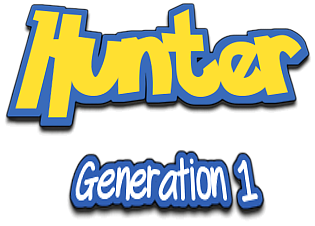
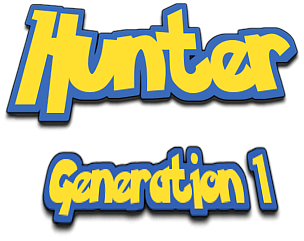
Commit 38
- Changed Hunter.png
For index
- Added google font
- Changed #rules to <p>
For Style
- Adjusting #rules placement

diff --git a/index.html b/index.html
@@ -6,6 +6,7 @@
     <link rel="stylesheet" href="https://unpkg.com/leaflet@1.6.0/dist/leaflet.css"
     integrity="sha512-xwE/Az9zrjBIphAcBb3F6JVqxf46+CDLwfLMHloNu6KEQCAWi6HcDUbeOfBIptF7tcCzusKFjFw2yuvEpDL9wQ=="
     crossorigin=""/>
+    <link href="https://fonts.googleapis.com/css2?family=Francois+One&display=swap" rel="stylesheet"> 
     <link rel="stylesheet" href="style.css">
 
     <title>Home</title>
@@ -31,19 +32,24 @@
                 <div>
                     <!-- <h1>Pokemon Hunter</h1> -->
                     <h1><img src="image/Hunter.png"></h1>
+                    <!-- <h1>Hunter</h1>
                     <h2><a href="https://fontmeme.com/pokemon-go-font/"><img src="https://fontmeme.com/permalink/200726/b8b1c9635139a5794af4cd5b6757676a.png" alt="pokemon-go-font" border="0"></a></h2>
-                    <h3>Singapore</h3>
+                    <h3>Singapore</h3> -->
                 </div>
             </div>
-            <div id="rules">
-                <ul>
+            <div id="rules" class="col">
+                <p>Hunt the wanted Pokemon!</p>
+                <p>Use their types to capture them</p>
+                <p>You have 30 seconds and 5 rounds</p>
+                <p>Do you want to be the very best?</p>
+                <!-- <ul>
                     <li>Hunt the wanted Pokemon!</li>
                     <li>30 pokemons will be unleashed all around Singapore</li>
                     <li>Each marker shows the Pokemon types</li>
                     <li>Hunt the Pokemon base on their types</li>
                     <li>You have 5 rounds</li>
                     <li>Do you want to be the very best?</li>
-                </ul>
+                </ul> -->
             </div>
         </div>
 

diff --git a/style.css b/style.css
@@ -13,9 +13,9 @@
    /* border-radius: 75%; */
    margin-right: 50px;
 }
-.nav-button img:hover {
+/* .nav-button img:hover {
     color: yellow;
-} 
+}  */
 .nav-button img {
     height: 60px;
     width: 60px;
@@ -84,16 +84,28 @@ body {
     display: flex;
     justify-content: center;
     text-align: center;
-    margin-top: 10px;
 }
-#title h1 {
-    margin-top: 10px;
+#title img {
+    height: 15vw;;
 }
+/* #title h1 {
+    margin-top: 10px;
+    font-family: 'Francois One';
+    color: #FFCC03;
+} */
 #rules {
-    display: flex;
-    justify-content: center;
+    /* display: flex; */
+    text-align: center;
     font-size: 2em;
-    margin-top: 30px;
+    /* margin-top: 30px; */
+    margin: 0;
+    font-family: 'Francois One';
+    color: #FFCC03;
+    transform: translate(0px, 200px);
+}
+#rules p {
+     margin: 10px;
+     /* transform: translate(0px, 500px); */
 }
 /* End of Home Page */
 
@@ -170,3 +182,10 @@ body {
     font-size: 1.5em;
 }
 /* End of Game Page */
+
+/* For laptop */
+@media only screen and (min-width: 800px) {
+    #rules {
+        transform: translate(0px, -120px);
+    }
+}
